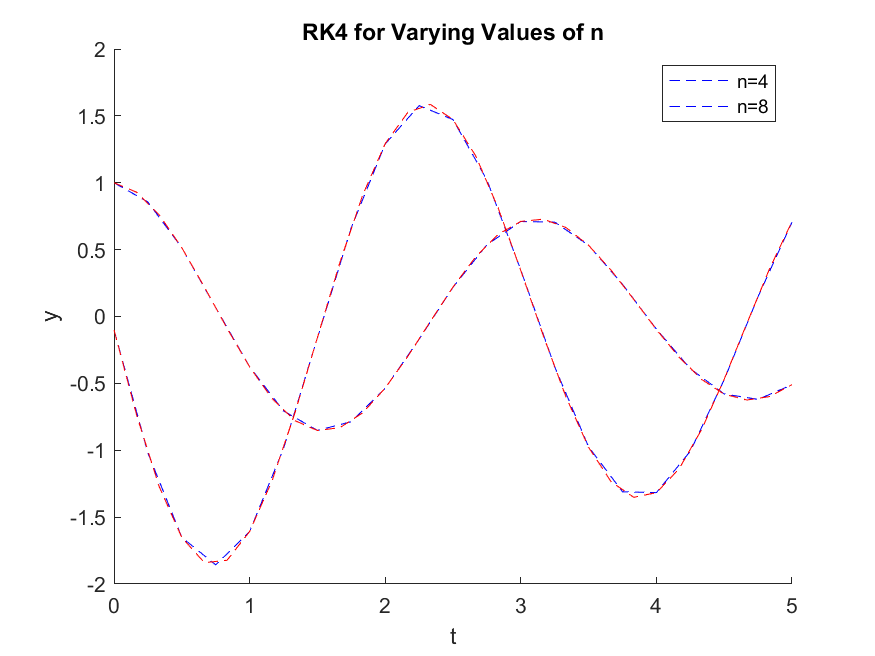
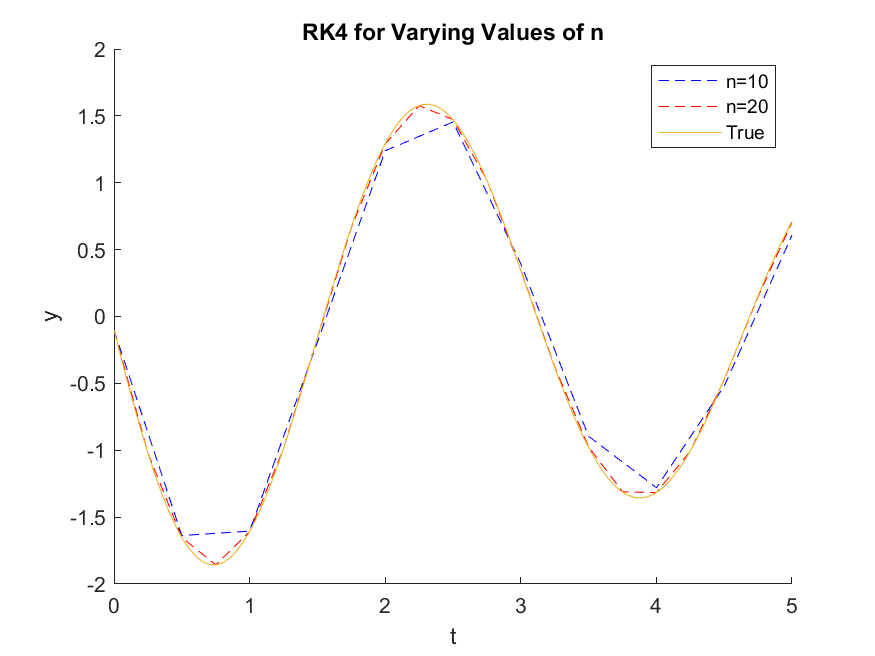
finished 2

diff --git a/hw7/testrk4.m b/hw7/testrk4.m
@@ -1,14 +1,23 @@
-T = 3;
+T = 5;
 F = @(t,y) [y(2), -(0.1^2 + 4)*y(1) + 2*(-0.1)*y(2)];
-[tvals4, yvals4] = RK4(F, 0, 5, [1;-0.1], 20);
-[tvals8, yvals8] = RK4(F, 0, 5, [1;-0.1], 30);
+[tvals4, yvals4] = RK4(F, 0, 5, [1;-0.1], 10);
+[tvals8, yvals8] = RK4(F, 0, 5, [1;-0.1], 20);
+f1 = @(t)exp(t*(-0.1-2*1i))/2 +exp(t*(-0.1+2*1i))/2;
+f2 = @(t) - exp(t*(- 1/10 - 2i))*(1/20 + 1i) - exp(t*(- 1/10 + 2i))*(1/20 - 1i);
+ 
 hold on;
-plot(tvals4,yvals4, 'b--');
+plot(tvals4,yvals4(:,1), 'b--');
 hold off;
 hold on;
-plot(tvals8,yvals8, 'r--');
+plot(tvals8,yvals8(:,1), 'r--');
+hold off;
+hold on
+plot(linspace(0,T),arrayfun(f1,linspace(0,T)));
+hold off
+
+
 xlabel('t');
 ylabel('y');
 title('RK4 for Varying Values of n')
-legend('n=4','n=8');
-saveas(gcf, '2b.png')
+legend('n=10','n=20','True');
+saveas(gcf, '2b1.png')

diff --git a/hw7/RK4.m b/hw7/RK4.m
@@ -1,5 +1,5 @@
 function [tvals, yvals] = RK4(F,t0,T,y0,n)
-dt = T/n;
+dt = (T-t0)/n;
 tvals = t0:dt:T;
 yvals = zeros(n+1, length(y0));
 yvals(1,:) = y0(:);
